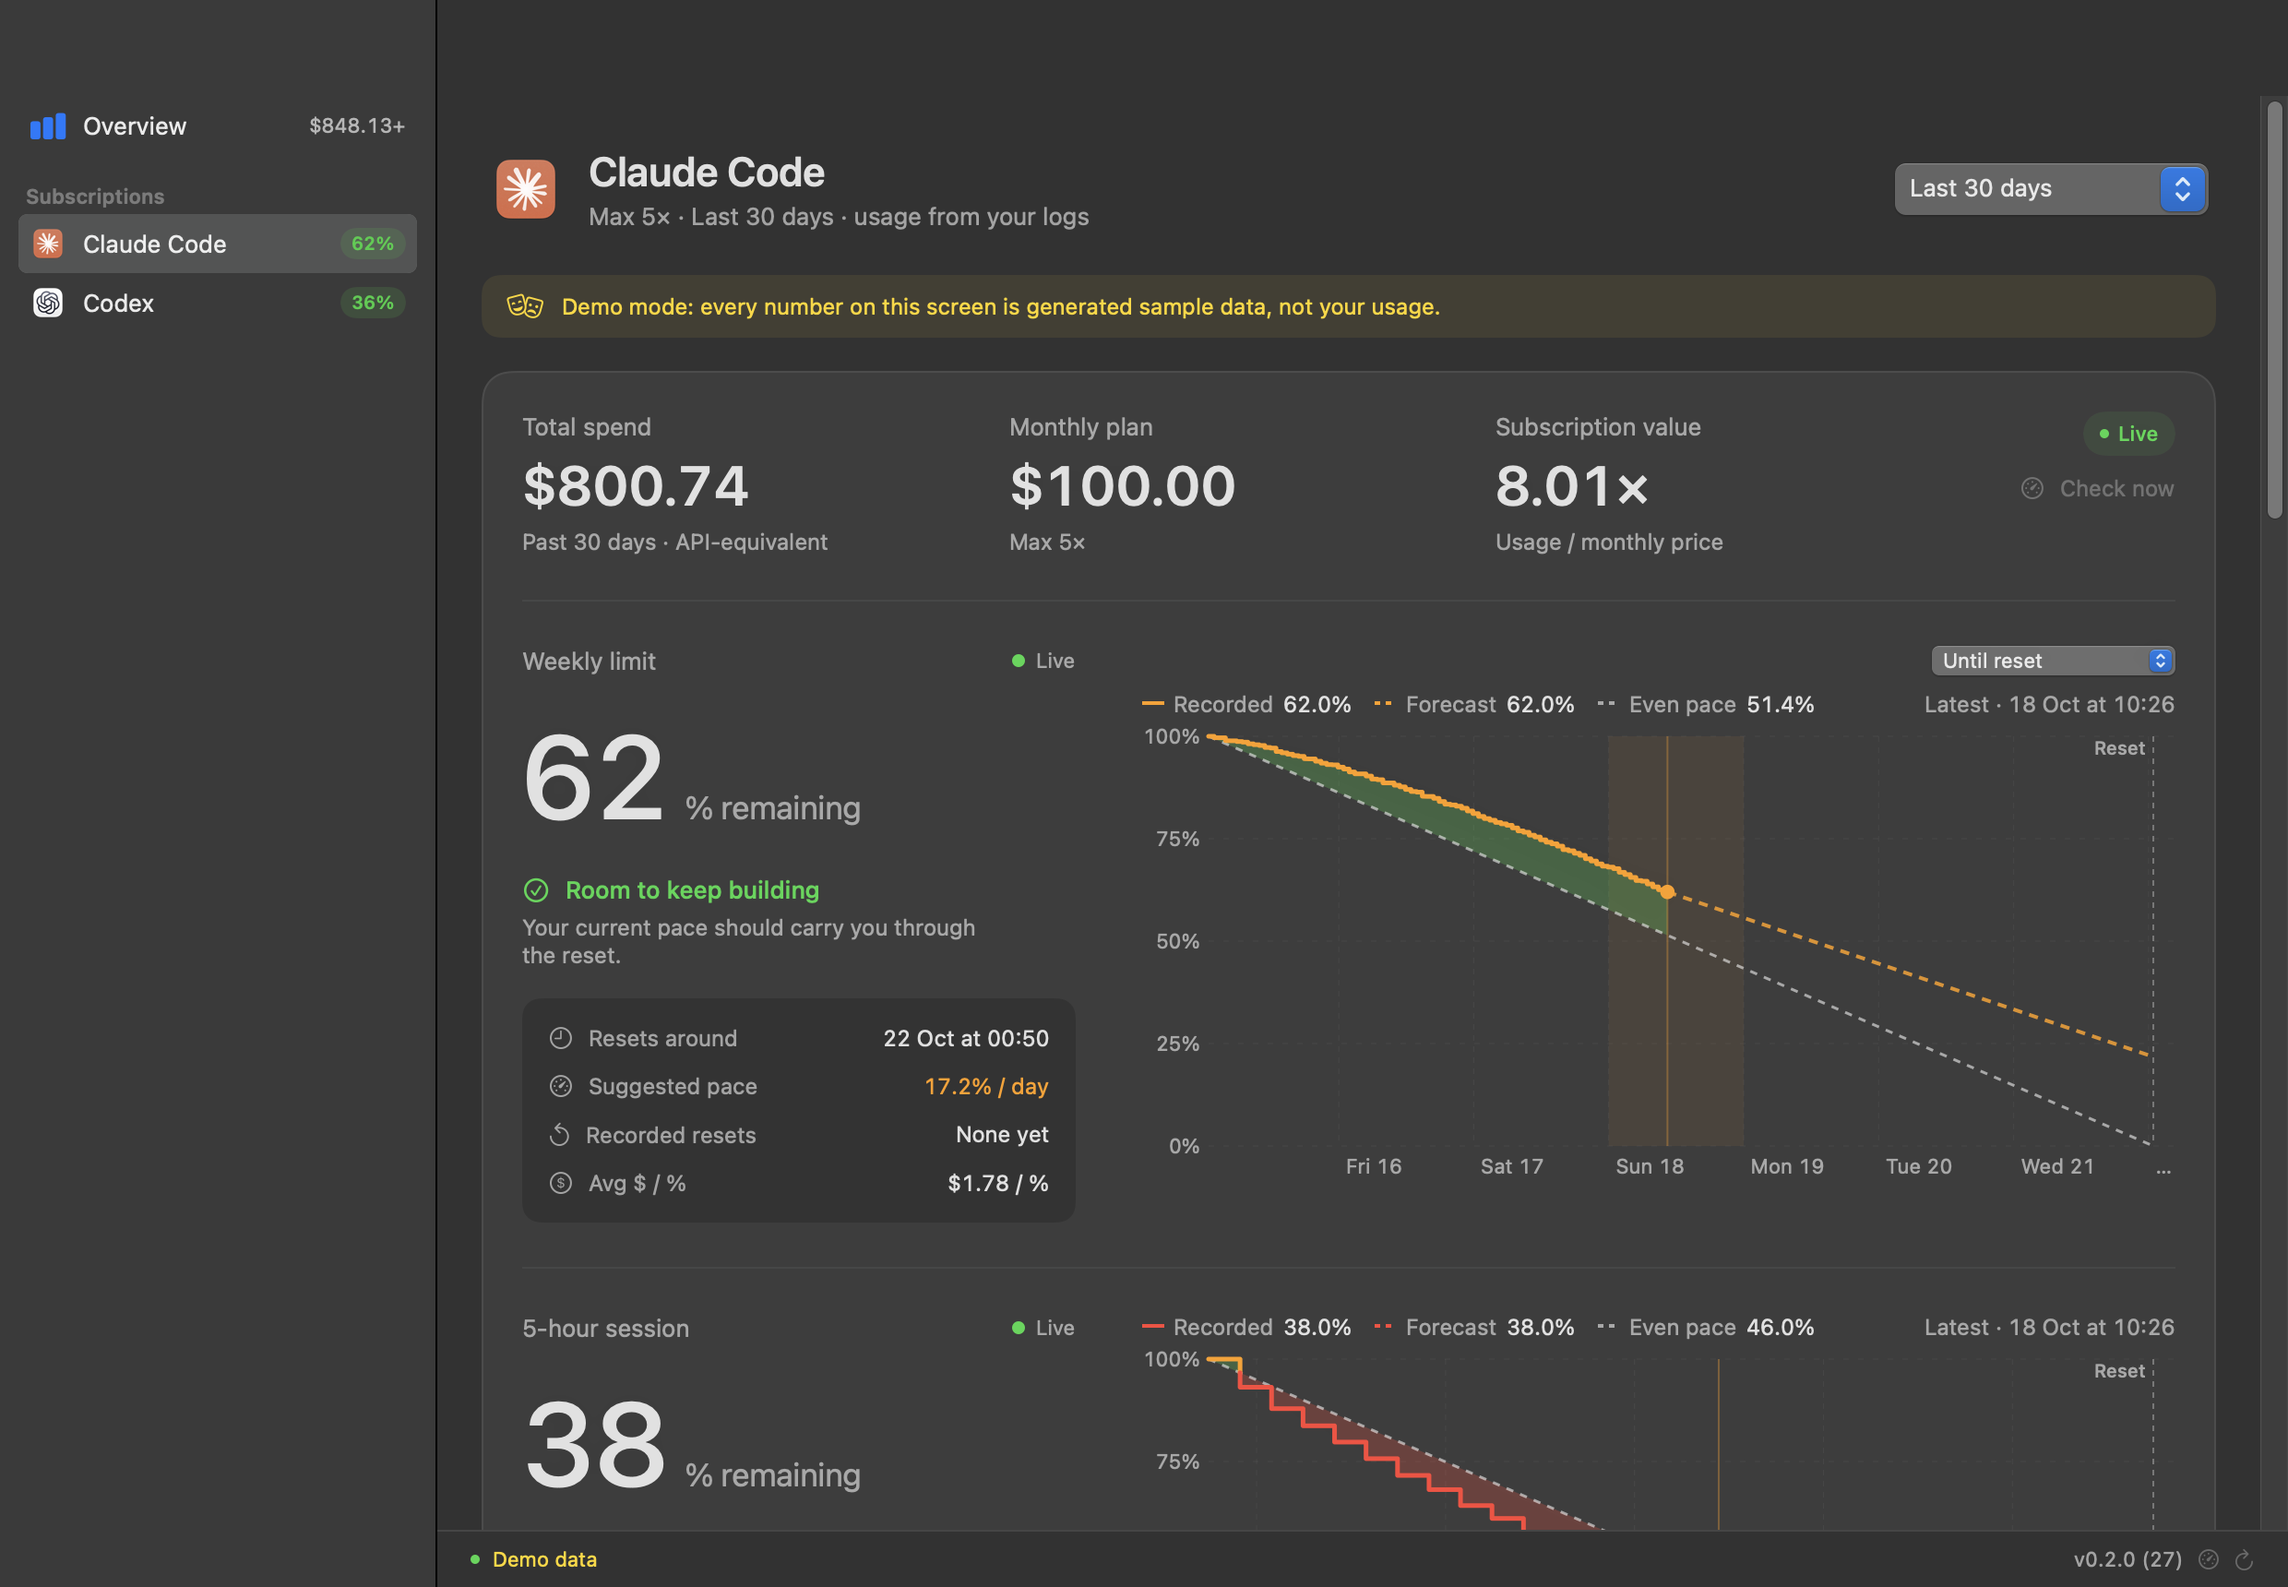
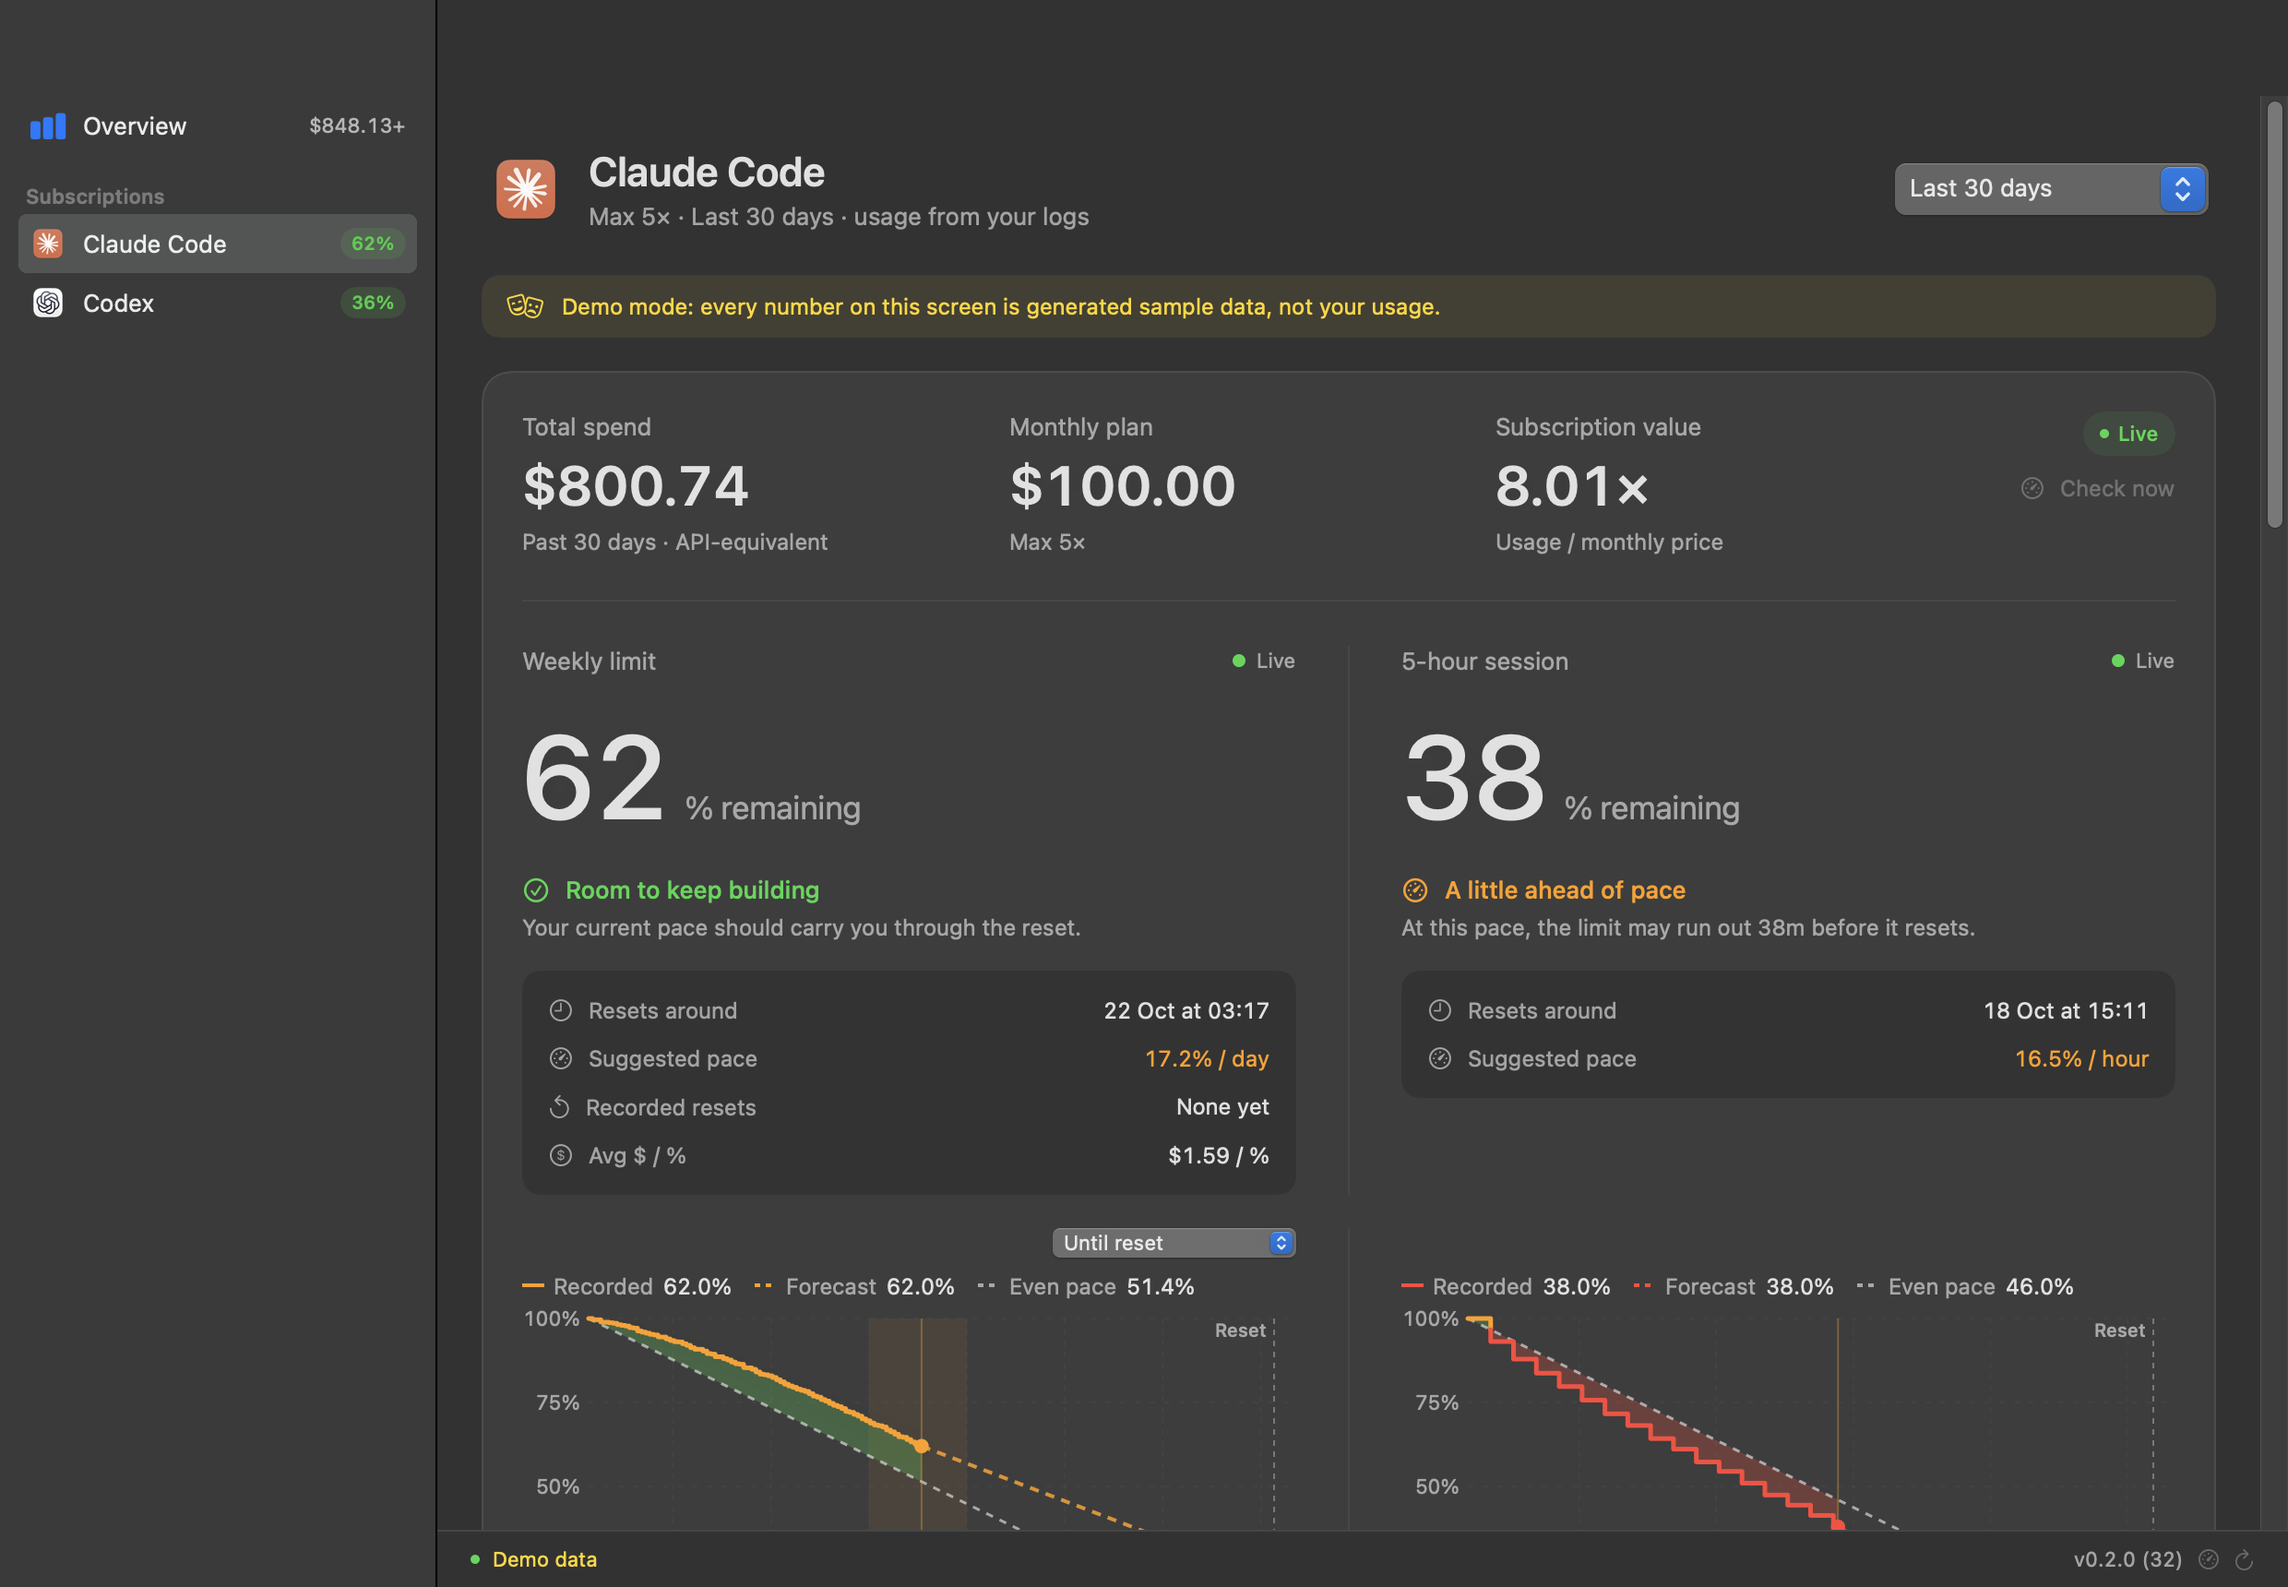
Show Claude's weekly limit and 5-hour session side by side

diff --git a/app/Sources/Burnless/HarnessQuota.swift b/app/Sources/Burnless/HarnessQuota.swift
@@ -98,14 +98,34 @@ struct QuotaHero: View {
   let harness: Harness
   /// Weekly windows follow the chart range setting; sessions stay until reset.
   var followsRange = true
+  /// Stacks the chart under the details so two heroes fit side by side.
+  var stacked = false
+  /// Lets a grid place the details and chart in separate rows.
+  var part = Part.all
+
+  enum Part { case all, details, chart }
 
   var body: some View {
-    @Bindable var settings = store.settings
-    let now = store.clock
     if let forecast = store.forecast(series) {
-      let range = followsRange ? settings.quotaChartRange : .untilReset
-      HStack(alignment: .top, spacing: 36) {
-        VStack(alignment: .leading, spacing: 16) {
+      switch part {
+      case .details: details(forecast).frame(maxWidth: .infinity, alignment: .topLeading)
+      case .chart: chart(forecast)
+      case .all:
+        let layout = stacked
+          ? AnyLayout(VStackLayout(alignment: .leading, spacing: 18))
+          : AnyLayout(HStackLayout(alignment: .top, spacing: 36))
+        layout {
+          details(forecast)
+            .frame(maxWidth: stacked ? .infinity : 300, alignment: .leading)
+          chart(forecast)
+        }
+      }
+    }
+  }
+
+  private func details(_ forecast: Forecast) -> some View {
+    let now = store.clock
+    return VStack(alignment: .leading, spacing: 16) {
           HStack(spacing: 8) {
             Text(title).font(.system(size: 13)).foregroundStyle(BurnTheme.muted)
             Spacer(minLength: 4)
@@ -122,19 +142,22 @@ struct QuotaHero: View {
             QuotaOutlookLabel(outlook: .make(forecast))
             QuotaFacts(forecast: forecast, series: series, harness: harness)
           }
-        }
-        .frame(width: 300, alignment: .leading)
-        VStack(alignment: .trailing, spacing: 8) {
-          if followsRange { QuotaRangePicker(range: $settings.quotaChartRange) }
-          if !forecast.hasReset(at: now) {
-            QuotaChartView(
-              forecast: forecast, samples: store.samples(series, range: range),
-              color: BurnTheme.color(for: harness), range: range, now: now, height: 240)
-          }
-        }
-        .frame(maxWidth: .infinity)
+    }
+  }
+
+  private func chart(_ forecast: Forecast) -> some View {
+    @Bindable var settings = store.settings
+    let now = store.clock
+    let range = followsRange ? settings.quotaChartRange : .untilReset
+    return VStack(alignment: .trailing, spacing: 8) {
+      if followsRange { QuotaRangePicker(range: $settings.quotaChartRange) }
+      if !forecast.hasReset(at: now) {
+        QuotaChartView(
+          forecast: forecast, samples: store.samples(series, range: range),
+          color: BurnTheme.color(for: harness), range: range, now: now, height: stacked ? 200 : 240)
       }
     }
+    .frame(maxWidth: .infinity)
   }
 }
 
@@ -217,18 +240,35 @@ struct HarnessQuotaCard: View {
         Rectangle().fill(BurnTheme.line).frame(height: 1)
         QuotaUnavailable(harness: harness)
       } else {
-        if weekly != nil {
-          Rectangle().fill(BurnTheme.line).frame(height: 1)
-          QuotaHero(title: "Weekly limit", series: harness == .claude ? .claudeWeekly : .codexWeekly, harness: harness)
-        }
-        if session != nil {
-          Rectangle().fill(BurnTheme.line).frame(height: 1)
+        Rectangle().fill(BurnTheme.line).frame(height: 1)
+        let weeklySeries: QuotaSeries = harness == .claude ? .claudeWeekly : .codexWeekly
+        if weekly != nil && session != nil {
+          // Two grid rows keep both charts on the same baseline.
+          Grid(alignment: .topLeading, horizontalSpacing: 28, verticalSpacing: 18) {
+            GridRow {
+              QuotaHero(title: "Weekly limit", series: weeklySeries, harness: harness, stacked: true, part: .details)
+              divider
+              QuotaHero(title: "5-hour session", series: .claudeSession, harness: harness, followsRange: false, stacked: true, part: .details)
+            }
+            GridRow(alignment: .bottom) {
+              QuotaHero(title: "Weekly limit", series: weeklySeries, harness: harness, stacked: true, part: .chart)
+              divider
+              QuotaHero(title: "5-hour session", series: .claudeSession, harness: harness, followsRange: false, stacked: true, part: .chart)
+            }
+          }
+        } else if weekly != nil {
+          QuotaHero(title: "Weekly limit", series: weeklySeries, harness: harness)
+        } else {
           QuotaHero(title: "5-hour session", series: .claudeSession, harness: harness, followsRange: false)
         }
       }
       secondary(now: now)
     }
     .burnCard(padding: 22)
+  }
+
+  private var divider: some View {
+    Rectangle().fill(BurnTheme.line).frame(width: 1).frame(maxHeight: .infinity)
   }
 
   private var status: (text: String, color: Color) {

diff --git a/app/Sources/Burnless/QuotaChartView.swift b/app/Sources/Burnless/QuotaChartView.swift
@@ -318,13 +318,22 @@ struct QuotaChartView: View {
   // MARK: Header and labels
 
   private var header: some View {
+    // Drops the cursor label rather than truncating it in narrow columns.
+    ViewThatFits(in: .horizontal) {
+      headerRow(cursor: !compact)
+      headerRow(cursor: false)
+    }
+  }
+
+  private func headerRow(cursor: Bool) -> some View {
     HStack(alignment: .firstTextBaseline, spacing: 12) {
       series("Recorded", reading.recorded, color: (reading.paceDelta ?? 0) >= 0 ? color : BurnTheme.behind, dashed: false)
       if showsForecast { series("Forecast", reading.forecast, color: runsOut ? BurnTheme.behind : color, dashed: true) }
       if showsIdeal { series("Even pace", reading.ideal, color: muted, dashed: true) }
       Spacer(minLength: 4)
-      if !compact {
-        Text(cursorLabel).font(.system(size: 12)).foregroundStyle(muted).monospacedDigit().lineLimit(1)
+      if cursor {
+        Text(cursorLabel).font(.system(size: 12)).foregroundStyle(muted).monospacedDigit()
+          .lineLimit(1).fixedSize()
       }
     }
   }
